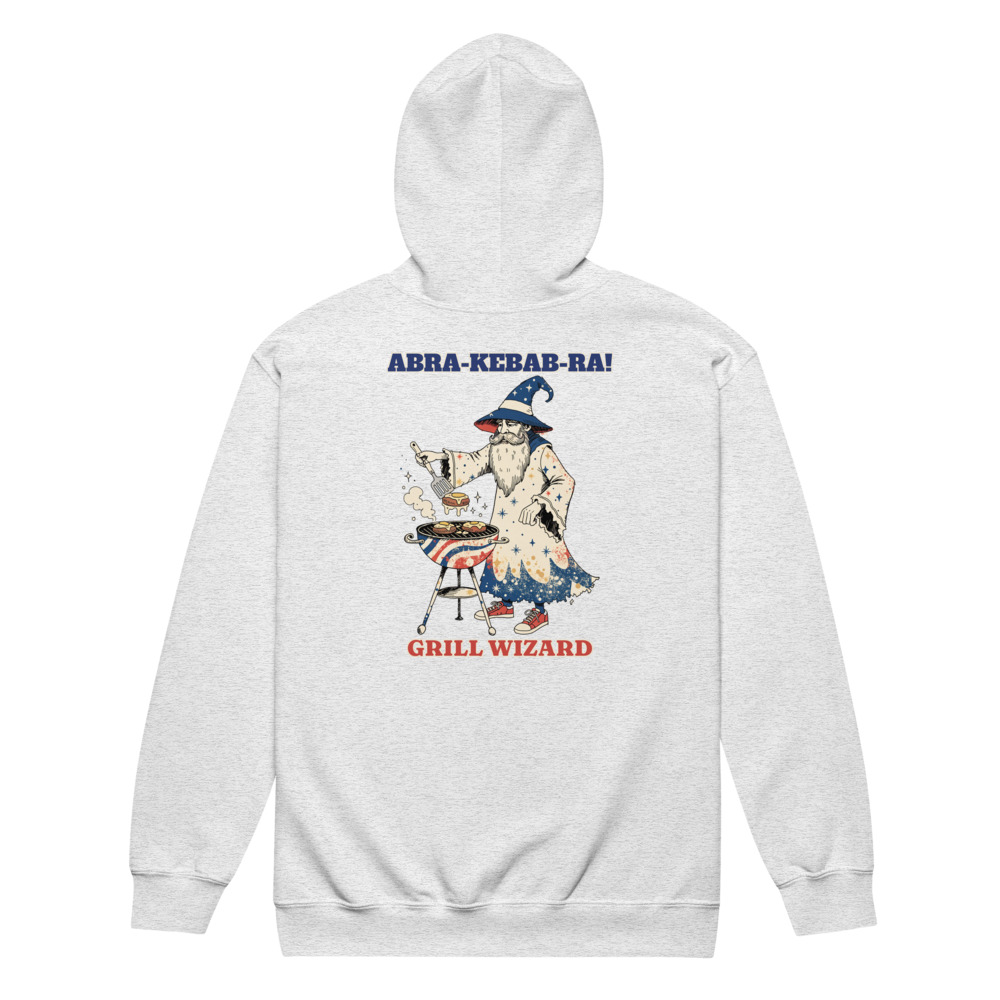
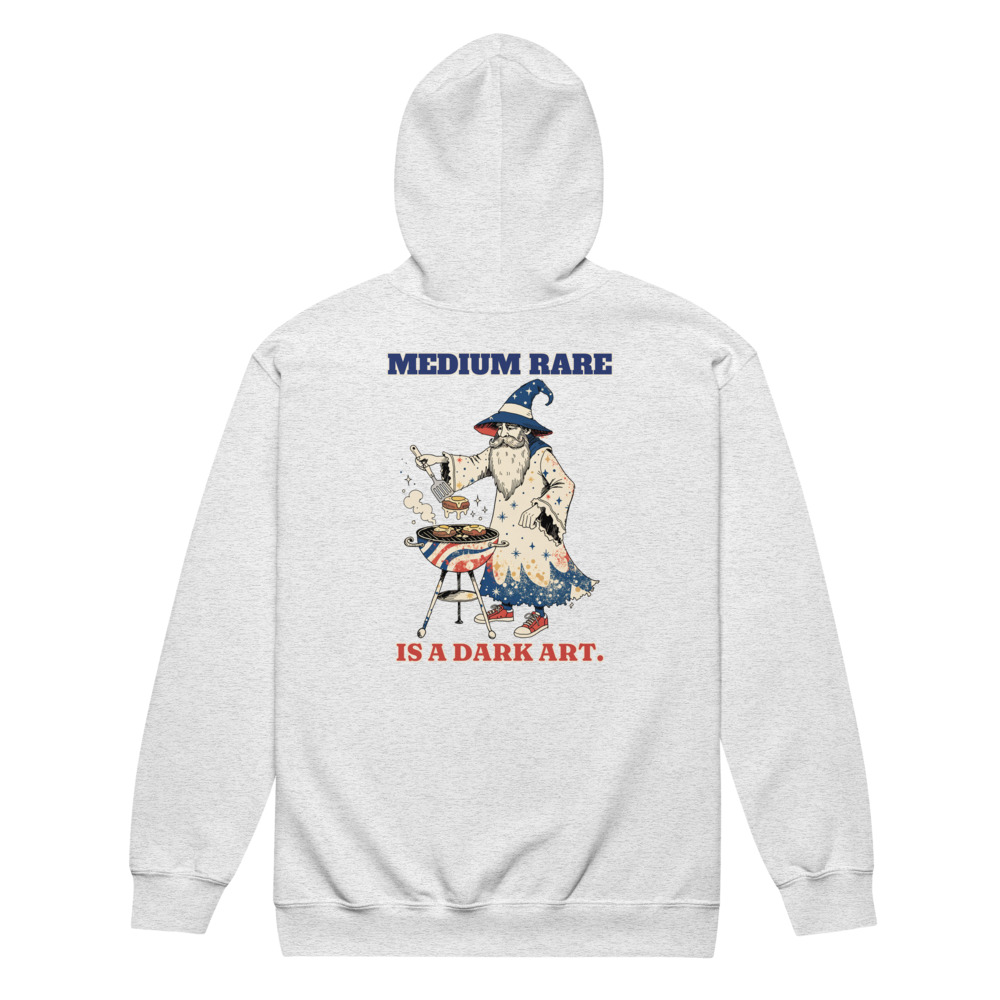
[C] wip 448 v3 files, 495 claim

Changed region(s): [[0.372, 0.341, 0.62, 0.682]]

diff --git a/designs/c448/make.py b/designs/c448/make.py
@@ -19,18 +19,18 @@ def line(text,font,wfrac,W,fill,key,kw=31,track=0,var=None):
     k=k.filter(ImageFilter.MaxFilter(kw)); im.paste(Image.new('RGBA',im.size,key),(0,0),k)
     draw(im,fill)
     return im.crop(im.getbbox())
-def build(tag,c1,k1,bgc):
+def build(tag,c1,k1,c2,k2,bgc):
     src=Image.open('docs/print-files/448-grill-wizard.png').convert('RGBA'); W=src.width
     art=src.crop((0,0,W,3666)); sc=0.86; art=art.resize((int(W*sc),int(art.height*sc)),Image.LANCZOS)
-    h1=line("ABRA-KEBAB-RA!",'AlfaSlabOne-Regular.ttf',0.97,W,c1,k1,kw=27)
-    h2=line("GRILL WIZARD",'Fraunces[SOFT,WONK,opsz,wght].ttf',0.80,W,RED,CREAM,kw=25,var=[0,900,72,0])
+    h1=line("MEDIUM RARE",'AlfaSlabOne-Regular.ttf',0.97,W,c1,k1,kw=27)
+    h2=line("IS A DARK ART.",'Fraunces[SOFT,WONK,opsz,wght].ttf',0.90,W,c2,k2,kw=25,var=[9,900,60,1])
     print(tag,'h1',h1.size,'h2',h2.size,'ratio h2/h1',h2.height/h1.height)
     g=36; H=h1.height+g+art.height+g+h2.height
     out=Image.new('RGBA',(W,H),(0,0,0,0))
     out.alpha_composite(h1,((W-h1.width)//2,0)); y=h1.height+g
     out.alpha_composite(art,((W-art.width)//2,y)); y+=art.height+g
     out.alpha_composite(h2,((W-h2.width)//2,y))
-    out.save(f'docs/print-files/448-v2-abra-{tag}.png'); print(out.size,H/W)
-    bg=Image.new('RGBA',out.size,bgc); bg.alpha_composite(out); bg.convert('RGB').resize((600,int(600*H/W))).save(f'designs/c448/prev_{tag}.png')
-build('ash',NAVY,CREAM,(200,200,200,255))
-build('navy',CREAM,NAVY,(38,50,88,255))
+    out.save(f'docs/print-files/448-v3-rare-{tag}.png'); print(out.size,H/W)
+    bg=Image.new('RGBA',out.size,bgc); bg.alpha_composite(out); bg.convert('RGB').resize((600,int(600*H/W))).save(f'designs/c448/prev3_{tag}.png')
+build('ash',NAVY,CREAM,RED,CREAM,(200,200,200,255))
+build('navy',CREAM,NAVY,(240,184,58,255),NAVY,(38,50,88,255))

diff --git a/designs/c495/make.py b/designs/c495/make.py
@@ -23,14 +23,14 @@ src=Image.open('docs/print-files/495-rest-day-sacred-quest.png').convert('RGBA')
 W=src.width; art=src.crop((0,356,W,3141))
 import sys
 NV=len(sys.argv)>1
-h1=line("LEG DAY CLAIMED",'Cinzel[wght].ttf',0.97,W,CREAM if NV else BROWN,BROWN if NV else CREAM,kw=27,var=[900])
-h2=line("ANOTHER KNIGHT.",'Bevan-Regular.ttf',0.97,W,RUST,CREAM,kw=19,track=14)
+h1=line("SKIPPED LEG DAY.",'BigShouldersDisplay[wght].ttf',0.97,W,CREAM if NV else BROWN,BROWN if NV else CREAM,kw=27,var=[900])
+h2=line("BLAMING THE ARMOR.",'Fraunces[SOFT,WONK,opsz,wght].ttf',0.97,W,RUST,CREAM,kw=23,var=[9,900,40,1])
 print('h1',h1.size,'h2',h2.size,'ratio h2/h1',h2.height/h1.height)
 g=34; H=h1.height+g+art.height+g+h2.height
 out=Image.new('RGBA',(W,H),(0,0,0,0))
 out.alpha_composite(h1,((W-h1.width)//2,0)); y=h1.height+g
 out.alpha_composite(art,(0,y)); y+=art.height+g
 out.alpha_composite(h2,((W-h2.width)//2,y))
-out.save('docs/print-files/495-v2-leg-day%s.png'%('-navy' if NV else '')); print(out.size,H/W)
+out.save('docs/print-files/495-v3-skipped%s.png'%('-navy' if NV else '')); print(out.size,H/W)
 for n,c in ((('navy',(38,50,88,255)),) if NV else (('sand',(214,196,160,255)),('navy0',(38,50,88,255)))):
-    bg=Image.new('RGBA',out.size,c); bg.alpha_composite(out); bg.convert('RGB').resize((600,int(600*H/W))).save(f'designs/c495/prev_{n}.png')
+    bg=Image.new('RGBA',out.size,c); bg.alpha_composite(out); bg.convert('RGB').resize((600,int(600*H/W))).save(f'designs/c495/prev3_{n}.png')
